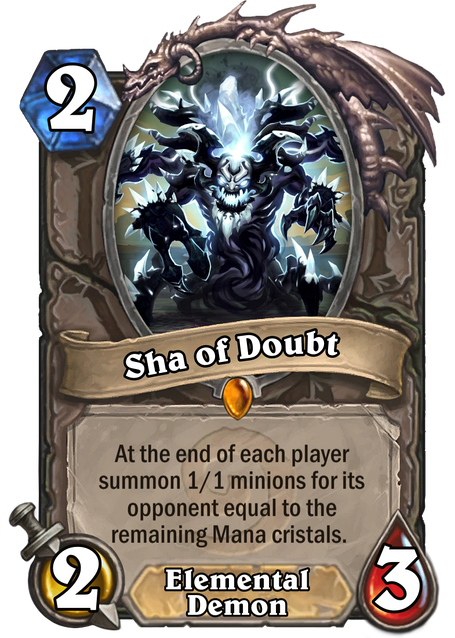
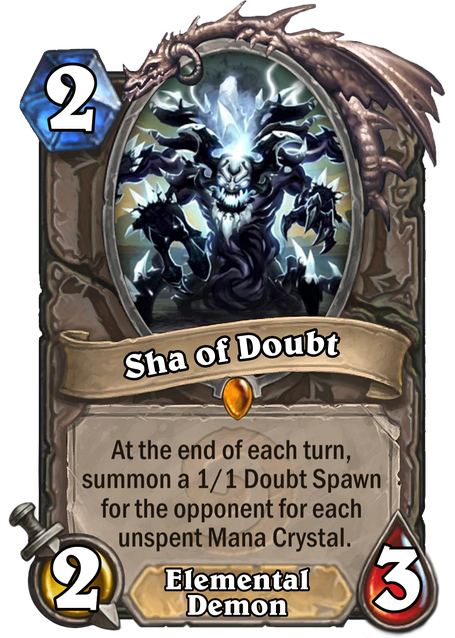
fix: sha of doubt tokens

diff --git a/custom-expansions/into-the-mists/neutral/index.html b/custom-expansions/into-the-mists/neutral/index.html
@@ -377,6 +377,10 @@
         <img src="tokens/2-jade-warden.png" alt="Jade Warden" />
         <span class="card-name">Jade Warden</span>
       </div>
+      <div class="card-item">
+        <img src="tokens/1-doubt-spawn.png" alt="Doubt Spawn" />
+        <span class="card-name">Doubt Spawn</span>
+      </div>
     </div>
 
     <nav class="class-nav">
